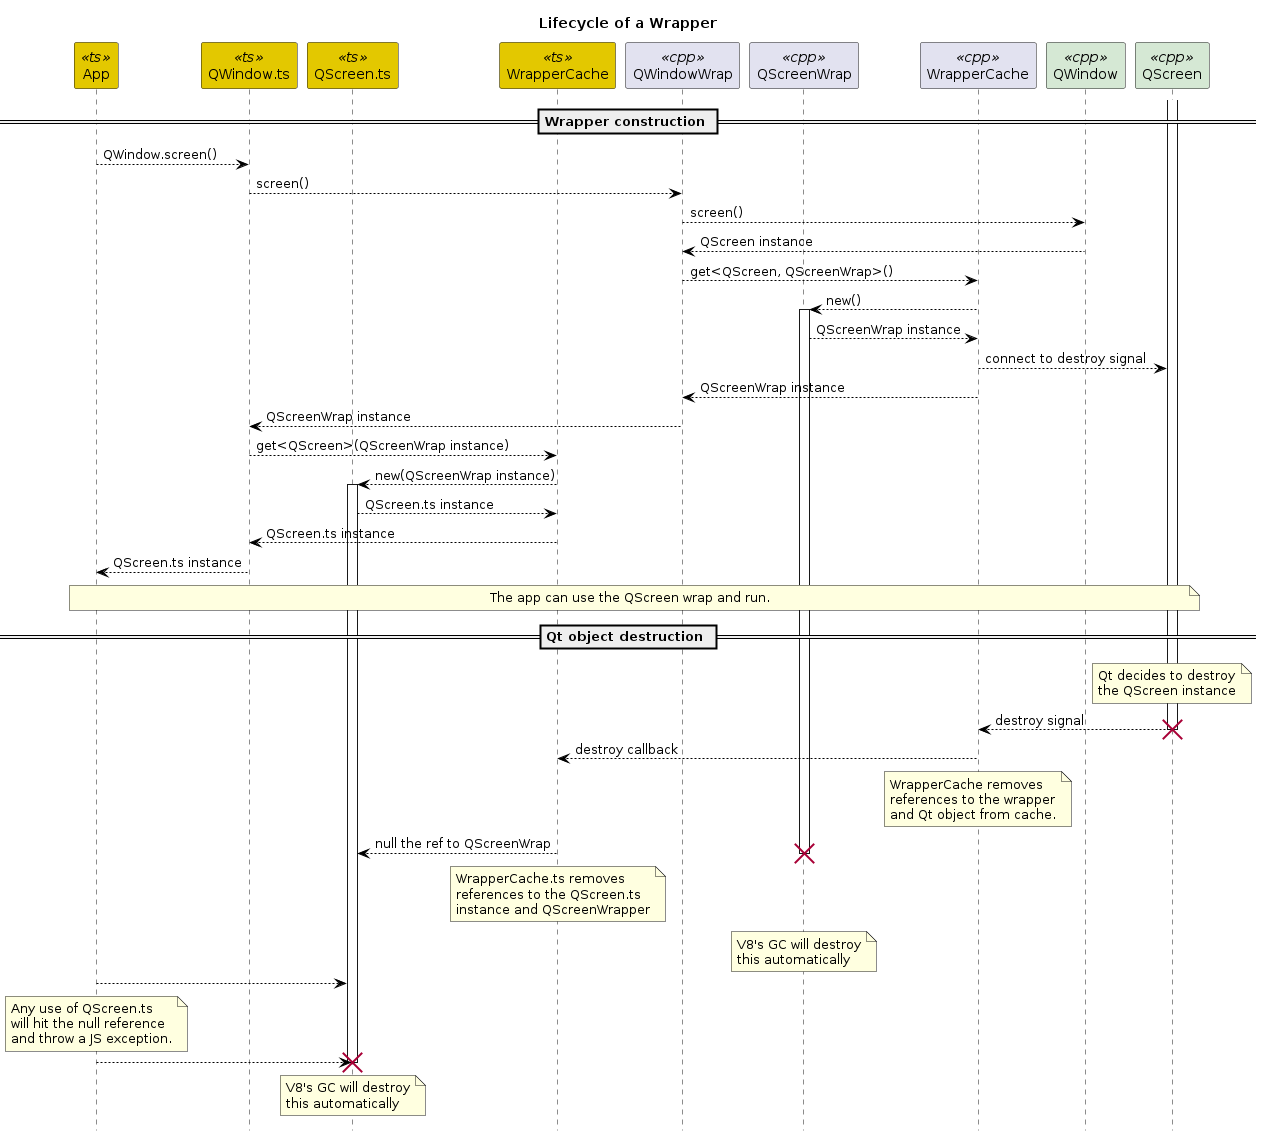
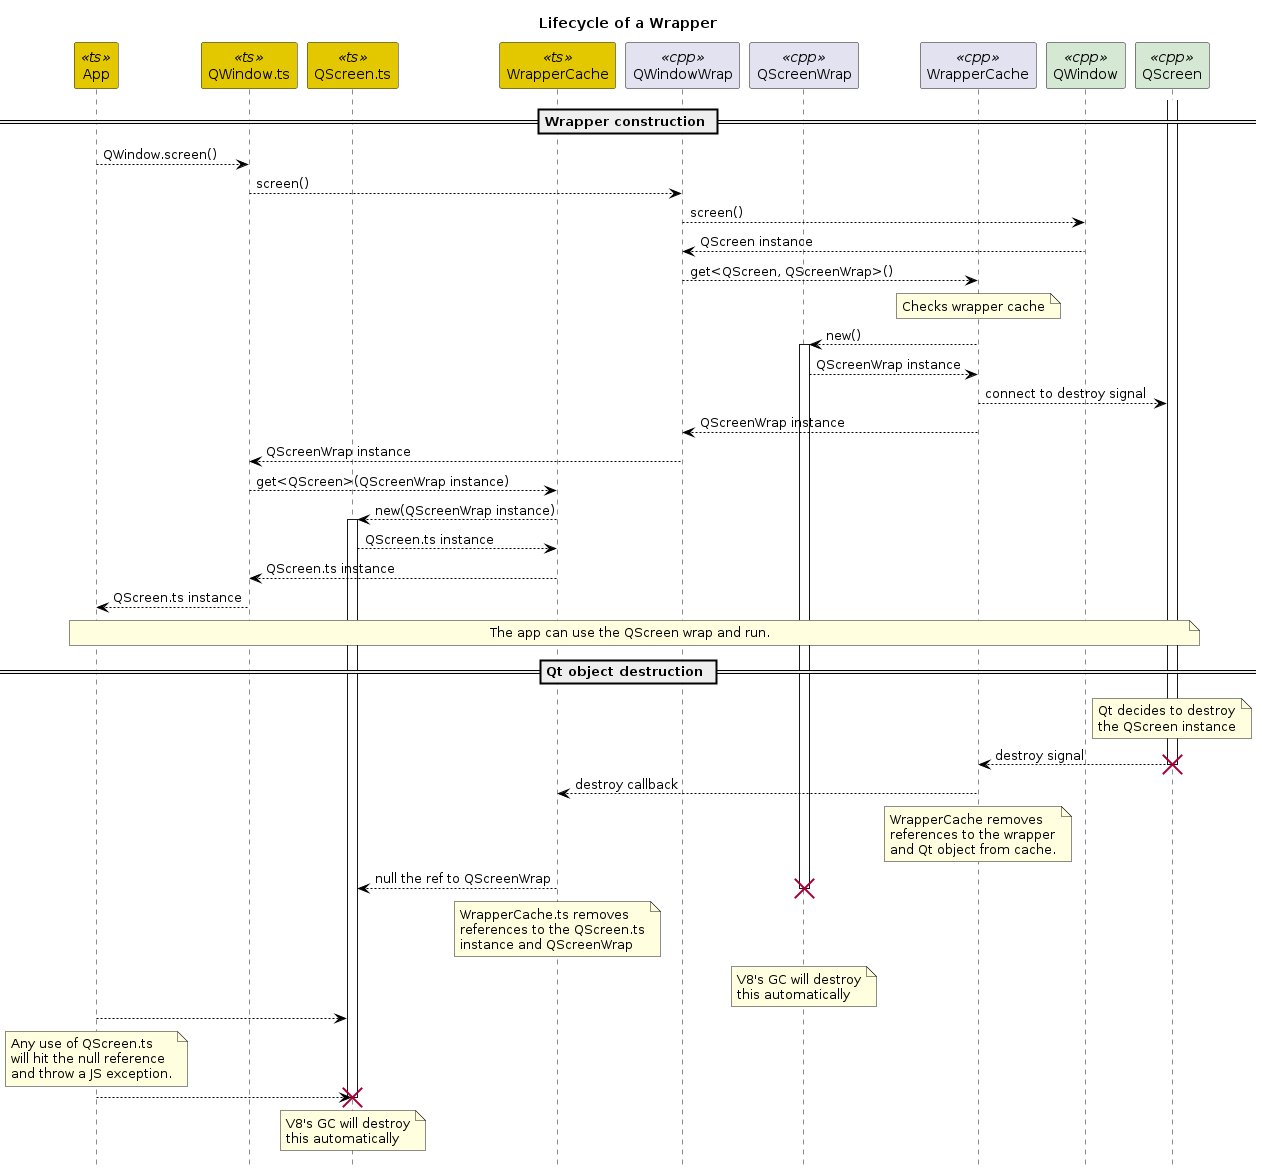
Document and design the case of object creation

diff --git a/website/docs/development/wrapper_caching.md b/website/docs/development/wrapper_caching.md
@@ -23,3 +23,8 @@ A related use case is where we want to "recycle" wrappers and ensure that for a 
 
 Another goal of this use case is to ensure that the unexpected destruction of the underlying QObject is handled in a more graceful and helpful way than just segfaulting the whole application. This requires the tracking of the QObject via its "destroy" signal and using that to communicate back to JS what has happened.
 
+The object creation sequence runs quite differently than in the "Wrapper Keep Alive" case because the application initiates the creation of the object and NodeGui then creates the different wrappers on the JS and C++ sides.
+
+![Wrapper recycle sequence diagram](wrapper_recycle_seq.png)
+
+The destruction sequence in the case of the C++ object being destroyed is basically the same as the "Wrapper Keep Alive" case.
